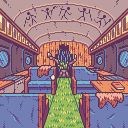
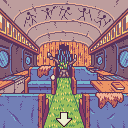
add exit arrow to plane room (#916)

Changed region(s): [[0.4375, 0.875, 0.5625, 1.0]]

diff --git a/packages/client/src/constants/rooms/54_plane_interior.ts b/packages/client/src/constants/rooms/54_plane_interior.ts
@@ -22,7 +22,7 @@ export const room54: Room = {
     },
     {
       name: 'plane exit',
-      coordinates: { x1: 52, y1: 90, x2: 76, y2: 110 },
+      coordinates: { x1: 52, y1: 110, x2: 76, y2: 130 },
       dialogue: 541,
     },
   ],
